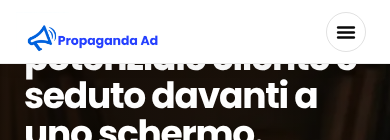
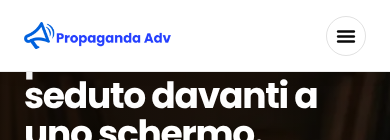
Header/footer: deliverable finali (spec, contrasti, screenshot, gap)
Claude-Session: https://claude.ai/code/session_01A3YkmxkYjTXZmPcTounehr

diff --git a/.claude-deliverables/header-footer/header-gap.md b/.claude-deliverables/header-footer/header-gap.md
@@ -13,7 +13,8 @@
 
 ## Dopo (template #228)
 - Container padre `pa-header` -> logo (2 widget Immagine) | Nav Menu | CTA. Fixed, z-index 1000.
-- Trasparente 72px in cima; dopo 24px di scroll: bianco, ombra `0 2px 16px rgba(0,0,0,.06)`, altezza 64px, voci scure, logo scuro, CTA nera (hover blu brand).
+- Trasparente 72px in cima; oltre 40px di scroll (torna sotto 8px): bianco, ombra `0 2px 16px rgba(0,0,0,.06)`, voci scure, logo scuro, CTA nera (hover blu brand). Altezza costante 72px, nessuna transizione: il cambio e' istantaneo e sincrono (sfondo, ombra, colori e logo nello stesso frame).
+- Logo: due immagini (B chiara, C scura) nello stesso riquadro 147x27px, ritagliate sull'inchiostro: posizione e dimensione identiche al pixel nei due stati.
 - Misure replicate da Vercel: voci 15.2px/500 gap 32; CTA 14px/600 pill 10x20 (42px); hamburger 40px tondo; pannello a tutta larghezza.
 - Link: `/#progetti`, `/#chi-siamo`, ..., CTA `/#contatti` (la home e' la front page: `/home/` reindirizza a `/`).
 
